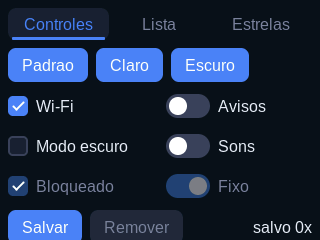
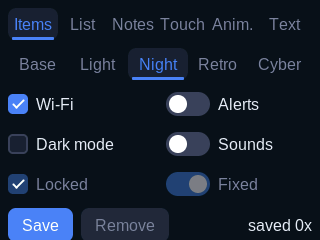
English pictures and texts everywhere: the README pictures are made again, the rest of the gallery texts and the changelog

diff --git a/examples/theme-gallery/gallery.c b/examples/theme-gallery/gallery.c
@@ -111,7 +111,7 @@ static void touch_page(cydui_ui *ui, gallery *g)
         }
     }
     if (g->touch.known && g->touch.lat_n > 0) { /* only where there is something to measure: the PC page is unchanged */
-        snprintf(text, sizeof(text), "latencia p95 %u ms, mediana %u ms, n=%d", g->touch.lat_p95_us / 1000u,
+        snprintf(text, sizeof(text), "latency p95 %u ms, median %u ms, n=%d", g->touch.lat_p95_us / 1000u,
                  g->touch.lat_p50_us / 1000u, g->touch.lat_n);
         cydui_draw_text_in(ui, area, area.x + 8, area.y + 6, text, strlen(text), st->text_muted);
     }
@@ -133,7 +133,7 @@ static void touch_page(cydui_ui *ui, gallery *g)
         cydui_text_extent e;
 
         if (as == GALLERY_ACCEPT_TARGETS) {
-            snprintf(text, sizeof(text), "toque os circulos: %d/%d", g->check_n, GALLERY_CHECKS);
+            snprintf(text, sizeof(text), "tap the circles: %d/%d", g->check_n, GALLERY_CHECKS);
         } else if (as == GALLERY_ACCEPT_TAPS_LEFT) {
             snprintf(text, sizeof(text), "max error %d px. Tap %d more times", max_px, GALLERY_ACCEPT_TAPS - g->touch.lat_n);
         } else {
@@ -149,7 +149,7 @@ static void touch_page(cydui_ui *ui, gallery *g)
             sum += g->check_err[i];
             worst = g->check_err[i] > worst ? g->check_err[i] : worst;
         }
-        snprintf(text, sizeof(text), "erro medio %d px, maximo %d px", sum / GALLERY_CHECKS, worst);
+        snprintf(text, sizeof(text), "mean error %d px, max %d px", sum / GALLERY_CHECKS, worst);
         {
             size_t n = strlen(text);
             cydui_text_extent e = cydui_text_size(st->font, text, n, 0);
@@ -178,7 +178,7 @@ static void text_page(cydui_ui *ui, gallery *g)
         if (cydui_button(ui, "Clear")) {
             g->confirm_clear = true;
         }
-        snprintf(text, sizeof(text), "%u + %u + %u letras", (unsigned)strlen(g->name), (unsigned)strlen(g->secret),
+        snprintf(text, sizeof(text), "%u + %u + %u letters", (unsigned)strlen(g->name), (unsigned)strlen(g->secret),
                  (unsigned)strlen(g->notes));
         cydui_label(ui, text);
     }

diff --git a/docs/09-hardware-notes.md b/docs/09-hardware-notes.md
@@ -89,7 +89,7 @@ Sending is the limit at 40 MHz and drawing at 80 MHz. The animation is above 30 
 
 These two lines were read from the screen of the board; the serial capture was not running at that moment, so there is no log of them.
 
-**Text input and the keyboard (iteration 6).** All 18 hashes (3 themes x 6 pages, the new one is "Text") equal the PC's. A self-test of the firmware injects touches under the real one and types "Ola 1" through the keys of the keyboard on the screen (Shift, the page of numbers, the space, Ok): passes, 45 frames of which the average took 15.3 ms and the worst 74 ms (the frame that opens the keyboard: about 120 commands, the dimming and a dozen strips), 2.4 strips sent per frame. The keyboard needs about 120 commands, so the storage of the UI of the gallery is 17.8 KB (320 commands, 1536 bytes of text, 48 states) and `cydui_ui` is 1.9 KB (it was 1.3 KB: a queue of 32 keys), `cydui_theme` 1.4 KB (three more kinds of widget); the free heap is 295.8 KB (it was 305.6 KB). The `cydui` component (core, widgets, text fields, popup, keyboard and the ESP32 backend) is 50.4 KB of flash at `-O2`, the firmware 0x51e60 bytes. The speed numbers of It5 did not change (a full redraw 24 fps, the animation with dirty regions 84 fps, idle CPU 0.09 %).
+**Text input and the keyboard (iteration 6).** All 18 hashes (3 themes x 6 pages, the new one is "Text") equal the PC's. A self-test of the firmware injects touches under the real one and types "Hi 1" through the keys of the keyboard on the screen (Shift, the page of numbers, the space, Ok): passes, 45 frames of which the average took 15.3 ms and the worst 74 ms (the frame that opens the keyboard: about 120 commands, the dimming and a dozen strips), 2.4 strips sent per frame. The keyboard needs about 120 commands, so the storage of the UI of the gallery is 17.8 KB (320 commands, 1536 bytes of text, 48 states) and `cydui_ui` is 1.9 KB (it was 1.3 KB: a queue of 32 keys), `cydui_theme` 1.4 KB (three more kinds of widget); the free heap is 295.8 KB (it was 305.6 KB). The `cydui` component (core, widgets, text fields, popup, keyboard and the ESP32 backend) is 50.4 KB of flash at `-O2`, the firmware 0x51e60 bytes. The speed numbers of It5 did not change (a full redraw 24 fps, the animation with dirty regions 84 fps, idle CPU 0.09 %).
 Nobody typed on the real screen yet: the layout was checked as pictures and by the self-test, and the keys are 30 x 32 px, which with the 4 px of error of the touch with the stylus (more with a finger) is to be tried by the user.
 
 **Animation, effects and the new themes (iteration 7).** The same 18 hashes of the gallery are the PC's, and so are the 24 new ones: five themes x six pages with the clock of the hash a made-up one, and cyberpunk once more at 5000 ms (the effects settled) and at 4810 ms (in the middle of a glitch): 42 of 42. Speed, per frame, 40 MHz SPI (80 MHz in parentheses): a full redraw with `clean` 26.3 fps (43.3), with `retro` 26.1 (43.4; 9.4 ms of drawing), with `cyberpunk` 25.2 (34.7; 17.5 ms of drawing, of which the scanlines take 1.3 ms and the rest is glow rings and the gradient bar); an animation that sends every strip 27.4 (46.8); an animation with dirty regions 99.4 (162) with `clean` and 88.9 (124) with `cyberpunk`, about 3.2 strips per frame because the glitch moves three bands now and then. The 40 MHz full redraw is bound by the SPI (34.5 ms for 12 strips): faster drawing does not help there, and 80 MHz does (19.1 ms). Tweens (CT-08): 1500 frames over the six pages of `cyberpunk` with a made-up clock keep 14 of the 48 state entries from the 200th frame to the last, never more than 2 tweens moving, no error, and the loop settles after the last frame (`GALLERY_TWEENS`); idle CPU 0.05 %, nothing sent. Memory: `gallery` with five themes 7.5 KB (1.4 KB each), the free heap 293 KB; the firmware is 0x58a00 bytes (363 KB) with the three fonts and the mono one. The panel was not looked at: the glow, the scanlines (on a real panel they may beat against the pixel grid) and the glitch are to be judged by eye.

diff --git a/CHANGELOG.md b/CHANGELOG.md
@@ -2,6 +2,10 @@
 
 Versions are tagged per iteration. Until 1.0 a new minor version may change the API; every change is listed under "API changes" (see `docs/11-api.md`).
 
+## Unreleased
+
+- Every text the user can see is in English: the gallery, the examples, the calibration screen of the ESP32 backend, the tests and the goldens, and the pictures of the README. Accented letters remain only as UTF-8 test data (Café, naïve, Zoë, Ångström, €). The board self-test types "Hi 1".
+
 ## 0.7.0 — iteration 7: a faster renderer, animation, post-effects and the `retro` and `cyberpunk` themes
 
 ### Added
